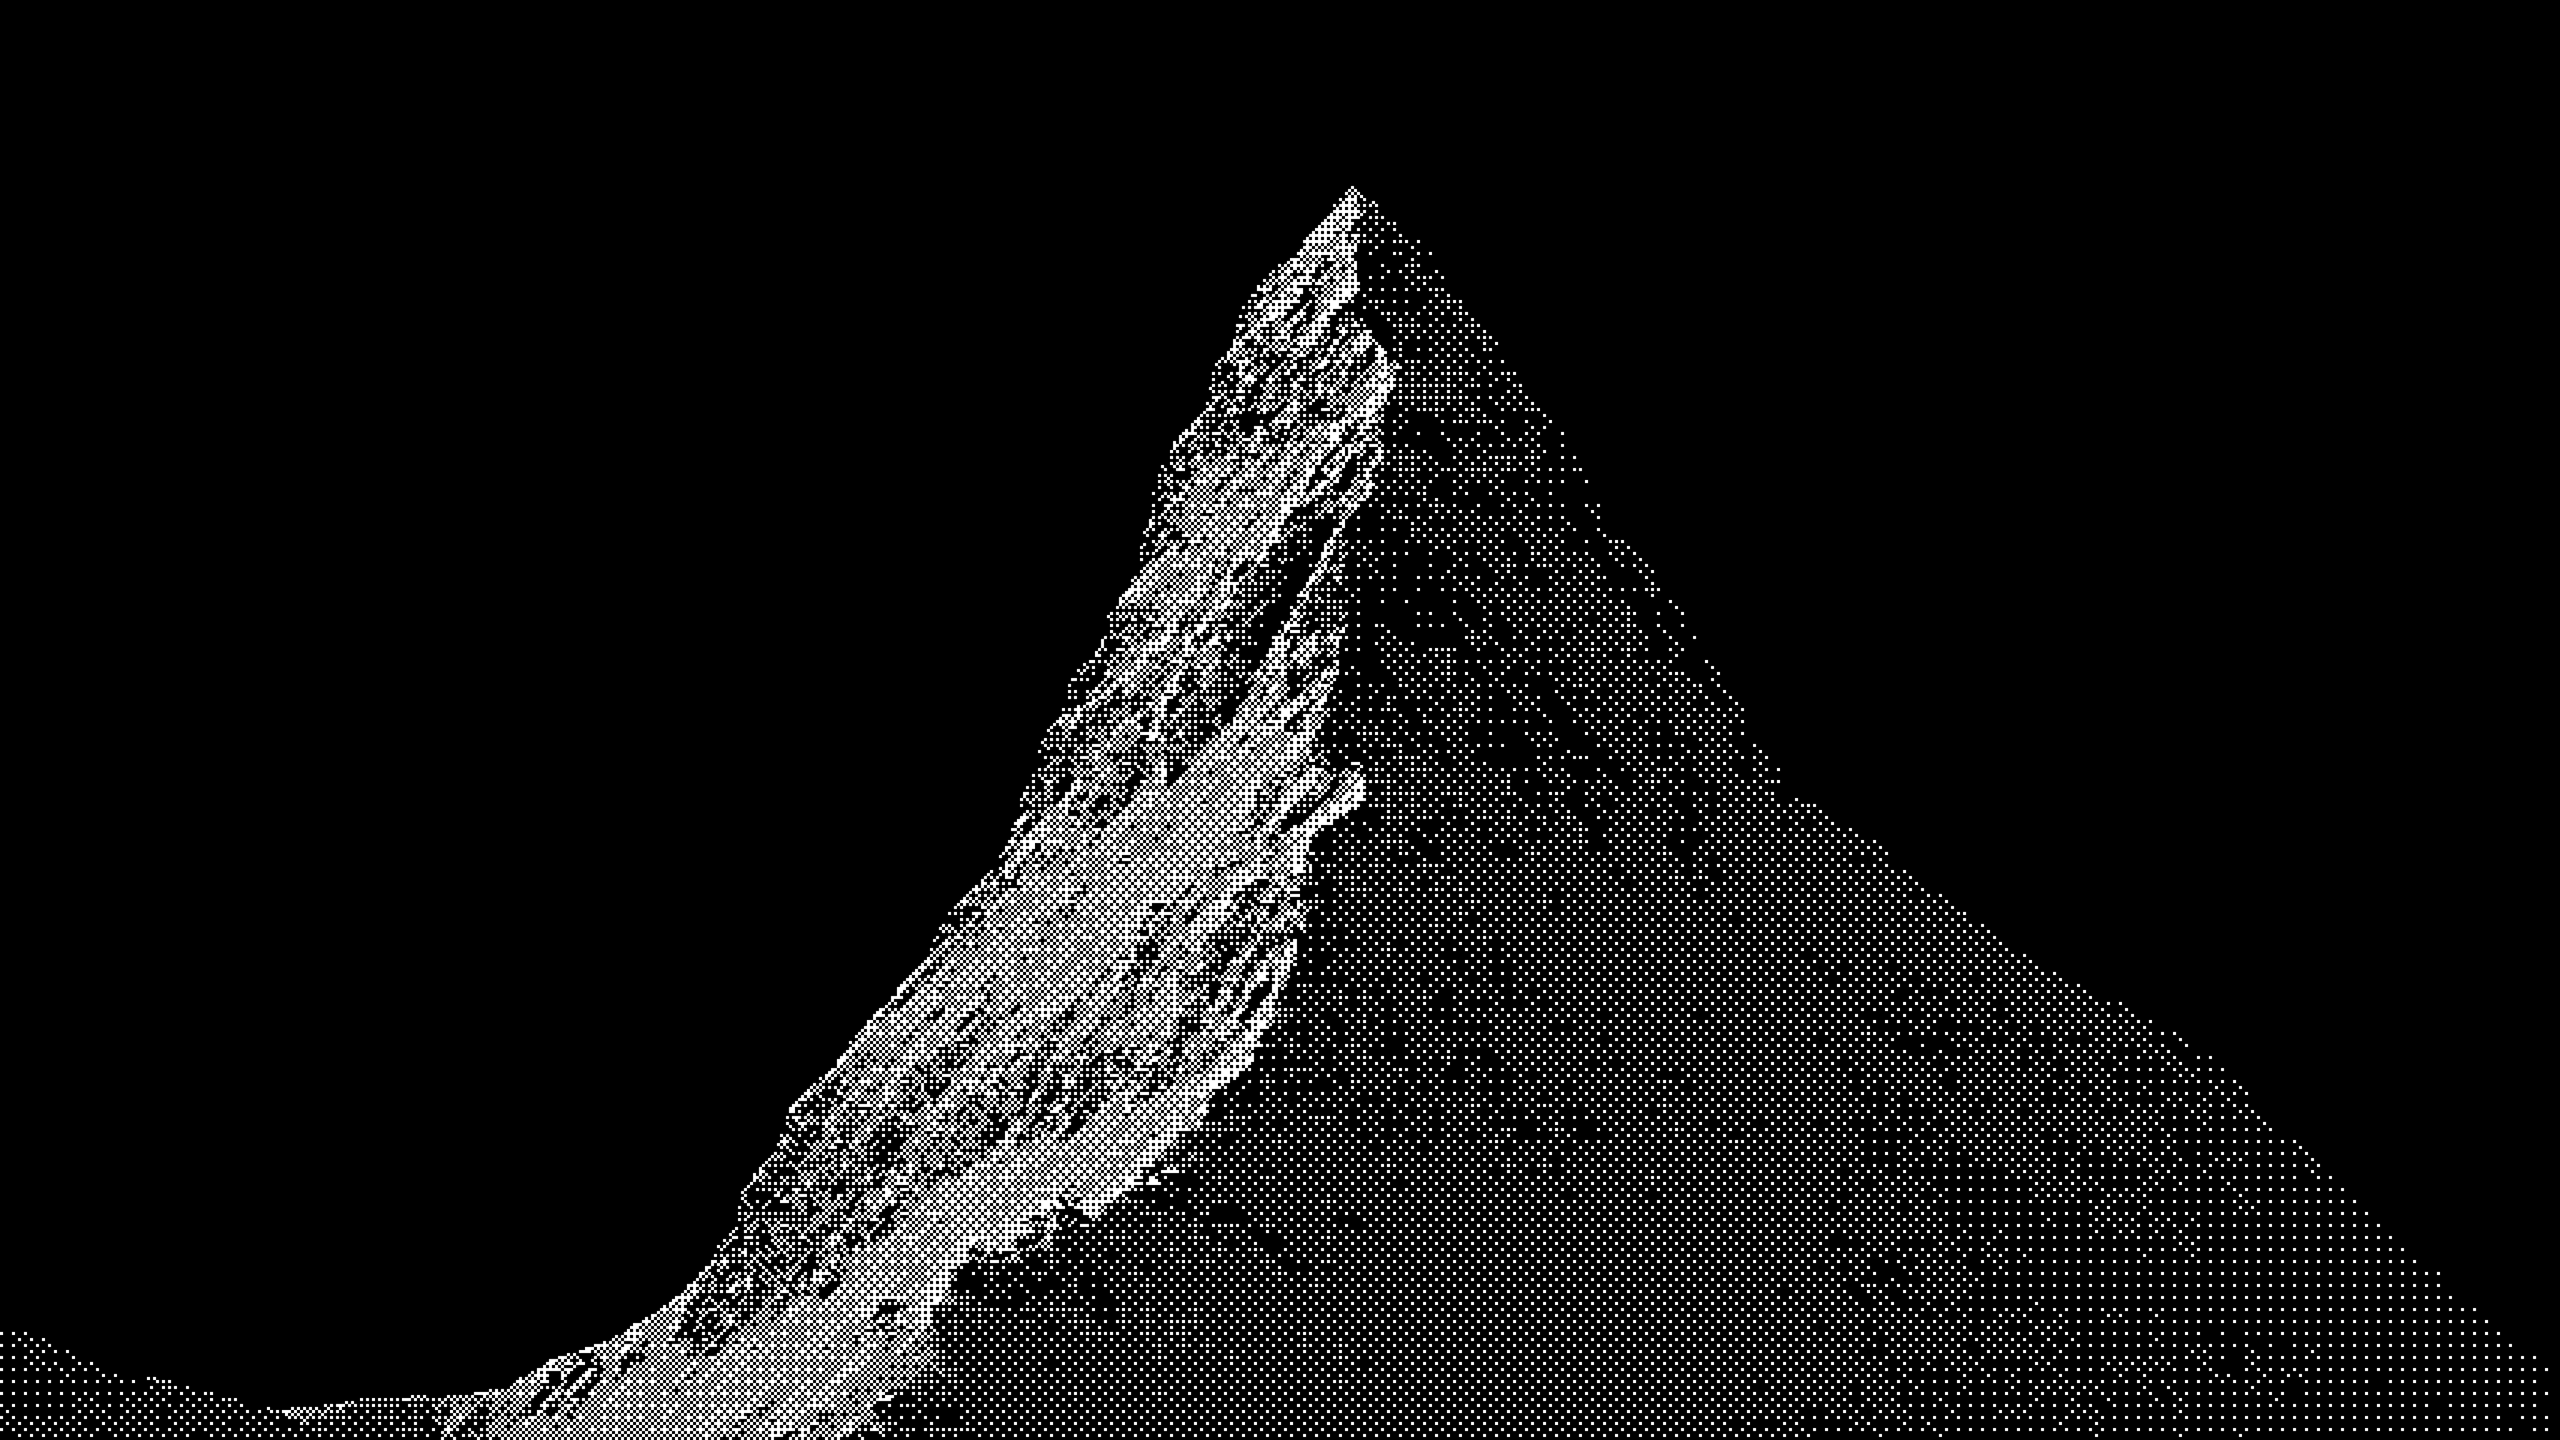
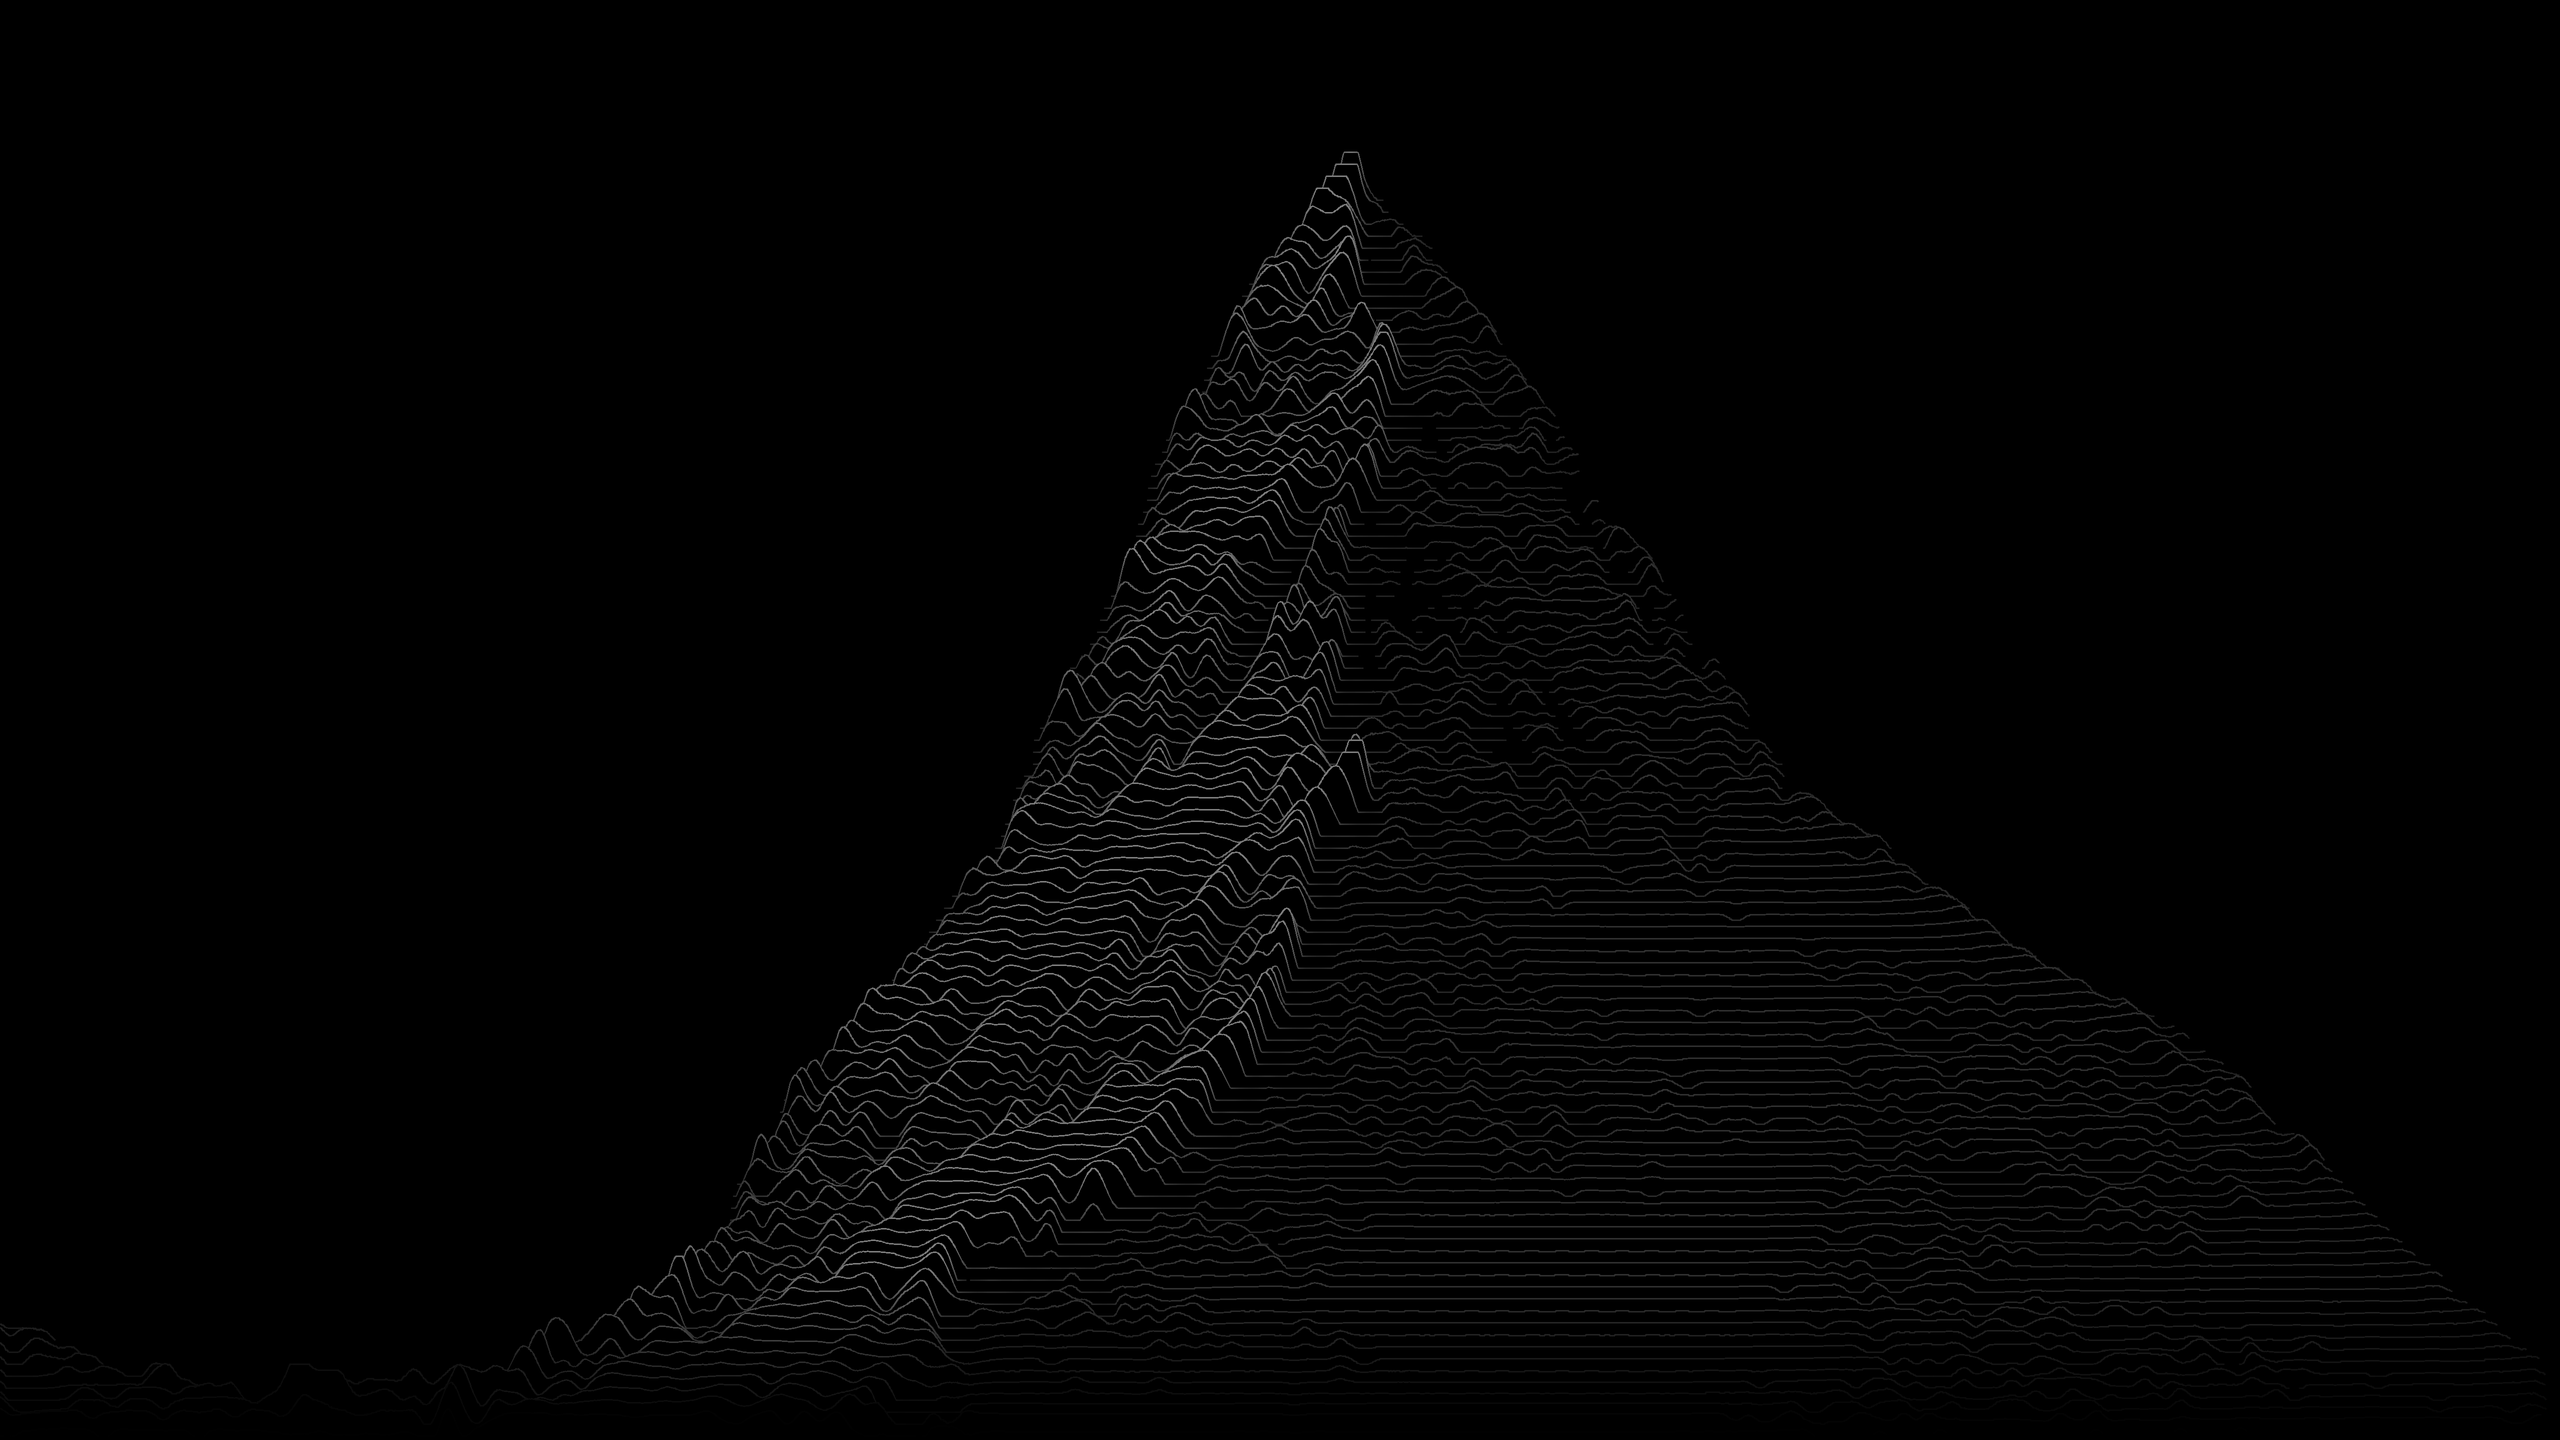
hypr: the Matterhorn wallpaper redrawn as ridgelines
The old dithered picture becomes rows of lines lifted by its brightness, nearer rows hiding further ones,
drawn at the desktop's 2560x1440 and never brighter than the bar's text. ridgelines.py redraws it.

Changed region(s): [[0.0, 0.125, 0.9688, 1.0]]

diff --git a/config/hypr/ridgelines.py b/config/hypr/ridgelines.py
@@ -1,0 +1,40 @@
+# The wallpaper: the old dithered Matterhorn redrawn as ridgelines. Each line is a row of the old picture's
+# brightness, blurred back out of its dots, lifted by how bright it is, with nearer rows hiding further ones.
+# The old picture is in git: git show f69cf93:config/hypr/wallpaper.png > /tmp/matterhorn.png
+#   python3 config/hypr/ridgelines.py 2560 1440 config/hypr/wallpaper.png /tmp/matterhorn.png
+import numpy as np, sys
+from PIL import Image, ImageDraw, ImageFilter
+W, H = int(sys.argv[1]), int(sys.argv[2]); out = sys.argv[3]
+S = 2; k = H / 1080
+# The brightest a line gets: under the bar's white, so the wallpaper never outshines it
+PEAK = 125
+src = Image.open(sys.argv[4]).convert('L')
+lum = np.asarray(src.filter(ImageFilter.GaussianBlur(6)).resize((W*S, H*S), Image.LANCZOS)).astype(float)/255
+# Local detail, lifted most where it's dark, so the shadowed face has terrain too rather than flat lines
+broad = np.asarray(src.filter(ImageFilter.GaussianBlur(28)).resize((W*S, H*S), Image.LANCZOS)).astype(float)/255
+lift = lum + (lum - broad) * (1.0 + 4.0 * (1 - np.clip(broad * 2.5, 0, 1)))
+# Where the mountain is: broadly, so the sparse dots of its shadowed face count, and closely, so lines start right at
+# its lit edge rather than trailing out into the sky
+sil = np.asarray(src.filter(ImageFilter.GaussianBlur(14)).resize((W*S, H*S), Image.LANCZOS)).astype(float)/255
+near = np.asarray(src.filter(ImageFilter.GaussianBlur(5)).resize((W*S, H*S), Image.LANCZOS)).astype(float)/255
+step, amp = 9*k, 30*k
+img = Image.new('L', (W*S, H*S), 0); d = ImageDraw.Draw(img)
+xs = np.arange(0, W*S, 2)
+lw = max(1, round(S*k))
+y0 = 60*k*S
+while y0 < H*S + amp*S:
+    yy = min(int(y0), H*S-1)
+    l = lum[yy, xs]; m = np.minimum(sil[yy, xs] / 0.035, near[yy, xs] / 0.025)
+    pts = list(zip(xs.tolist(), (y0 - amp*S*np.clip(lift[yy, xs], 0, 1.2)).tolist()))
+    d.polygon(pts + [(W*S, H*S), (0, H*S)], fill=0)
+    fade = min(1, max(0, (H*S - y0) / (110*k*S)))
+    for i in range(len(xs)-1):
+        if m[i] > 1 and m[i+1] > 1:
+            b = min(1, 0.22 + 1.3*l[i]) * fade
+            d.line([pts[i], pts[i+1]], fill=int(PEAK*b), width=lw)
+    y0 += step*S
+img = img.resize((W, H), Image.LANCZOS)
+if out.endswith('.ppm'):
+    img.convert('RGB').save(out)
+else:
+    img.save(out, optimize=True)
